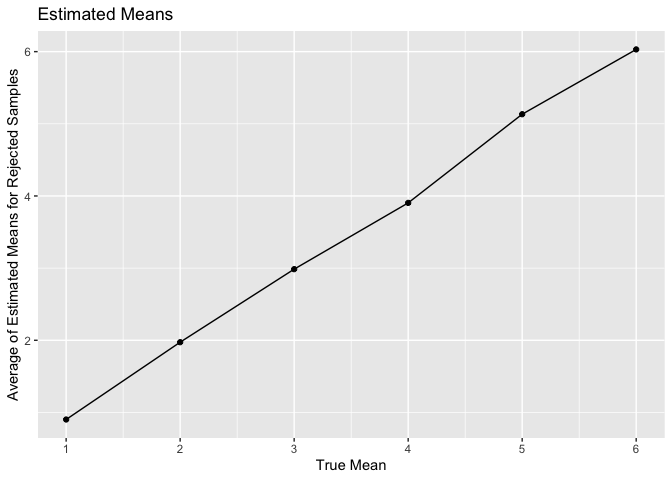
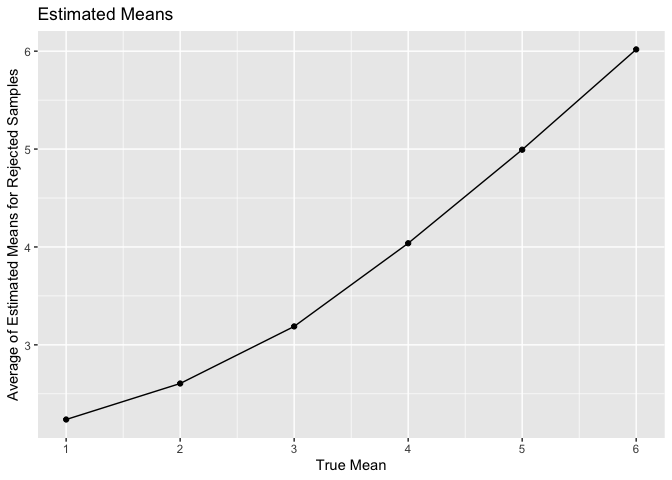
final commit after modifying the file

diff --git a/p8105_hw5_zq2209.md b/p8105_hw5_zq2209.md
@@ -479,7 +479,7 @@ datasets = map(1:5000, ~ rnorm(n = 30, mean = 0, sd = 5))
 t_test = function(mu) {
   data = c(rnorm(n = 30, mean = mu, sd = 5))
   
-  result = t.test(data, mu = mu) %>% 
+  result = t.test(data) %>% 
     broom::tidy() %>% 
     select(estimate,p.value)
   
@@ -502,12 +502,12 @@ head(t_test_mu0)
     ## # A tibble: 6 × 4
     ##   iteration  mean estimate p.value
     ##       <int> <dbl>    <dbl>   <dbl>
-    ## 1         1     0  -1.39    0.105 
-    ## 2         2     0  -2.01    0.0261
-    ## 3         3     0   0.0542  0.959 
-    ## 4         4     0   0.0982  0.923 
-    ## 5         5     0  -0.295   0.786 
-    ## 6         6     0   0.422   0.663
+    ## 1         1     0    1.18   0.236 
+    ## 2         2     0   -0.237  0.823 
+    ## 3         3     0   -2.12   0.0622
+    ## 4         4     0   -1.67   0.0844
+    ## 5         5     0    2.29   0.0193
+    ## 6         6     0   -0.243  0.811
 
 ## Loop over 5000 datasets for mu = 1-6
 
@@ -523,12 +523,12 @@ head(t_test_all)
     ## # A tibble: 6 × 4
     ##    mean iteration estimate p.value
     ##   <int>     <int>    <dbl>   <dbl>
-    ## 1     1         1   -0.125  0.245 
-    ## 2     1         2    1.59   0.516 
-    ## 3     1         3    0.958  0.954 
-    ## 4     1         4    0.804  0.860 
-    ## 5     1         5    2.79   0.0756
-    ## 6     1         6    1.41   0.635
+    ## 1     1         1    2.37   0.0139
+    ## 2     1         2    2.10   0.0423
+    ## 3     1         3    0.609  0.502 
+    ## 4     1         4    1.21   0.223 
+    ## 5     1         5    1.98   0.0242
+    ## 6     1         6   -0.732  0.461
 
 ## Plot showing the power of the test on the y axis and the true value of mean on the x axis
 
@@ -557,19 +557,20 @@ power_test_table = t_test_all %>%
 power_test_table
 ```
 
-| mean |   n | reject_prop |
-|-----:|----:|------------:|
-|    1 | 252 |      0.0504 |
-|    2 | 253 |      0.0506 |
-|    3 | 271 |      0.0542 |
-|    4 | 259 |      0.0518 |
-|    5 | 224 |      0.0448 |
-|    6 | 252 |      0.0504 |
+| mean |    n | reject_prop |
+|-----:|-----:|------------:|
+|    1 |  971 |      0.1942 |
+|    2 | 2772 |      0.5544 |
+|    3 | 4443 |      0.8886 |
+|    4 | 4928 |      0.9856 |
+|    5 | 4999 |      0.9998 |
+|    6 | 5000 |      1.0000 |
 
-As seen in plots and summary table, the number of rejected samples don’t
-have much difference by different true mean. And the proportion of
-rejected samples in the plot doesn’t show a obvious association between
-true mean and power of test.
+As seen in plots and summary table, the proportion of rejected samples
+increased as mean deviated from 0 gradually. It is reasonable to
+conclude that as sample size and alpha stay unchanged, the much larger
+difference in average of estimates and true mean, the larger the power
+of test(proportion of rejected samples).
 
 ## Plot showing the average estimate of mean on the y axis and the true value of mean on the x axis.
 
@@ -596,15 +597,15 @@ average_mean_all_table
 
 | mean | average_estimates |
 |-----:|------------------:|
-|    1 |          1.012333 |
-|    2 |          2.002096 |
-|    3 |          3.000042 |
-|    4 |          4.020607 |
-|    5 |          5.012810 |
-|    6 |          6.004361 |
+|    1 |          1.020842 |
+|    2 |          1.975844 |
+|    3 |          2.997601 |
+|    4 |          4.004256 |
+|    5 |          4.992785 |
+|    6 |          6.017878 |
 
-As shown in plot and table, the average of estimated means is almost
-equal to the true mean. The line is straight.
+As shown in plot and table, the average of estimated means is equal to
+the true mean. The line is straight.
 
 ## Plot showing average estimate of mean only in samples for rejected samples on the y axis and the true value of mean on the x axis
 
@@ -642,17 +643,24 @@ t_test_reject_table
 
 | mean | average_estimates |
 |-----:|------------------:|
-|    1 |         0.9021514 |
-|    2 |         1.9734589 |
-|    3 |         2.9856242 |
-|    4 |         3.9040046 |
-|    5 |         5.1328156 |
-|    6 |         6.0307409 |
+|    1 |          2.237376 |
+|    2 |          2.605148 |
+|    3 |          3.188277 |
+|    4 |          4.037770 |
+|    5 |          4.993433 |
+|    6 |          6.017878 |
 
 As shown in table and plot, the average of estimates of rejected samples
 is not exactly equal to true mean, which is make sense that difference
 in average of estimates and true mean should be statistically large to
-reject the null hypothesis.
+reject the null hypothesis. For true mean \< 4, estimates need to be far
+from true mean to reject the hypothesis that mean is 0, because true
+mean of these samples is not far from 0. If not, the difference won’t be
+statistically large to reject the null. So, the average of estimates
+will deviate from true mean, same as shown in plot. For true mean \>= 4,
+the difference in estimate and true mean don’t need to be large, because
+true mean is already far from 0. So, the average of estimates tends to
+equal true mean.
 
 ## Rejected samples vs. All samples
 
